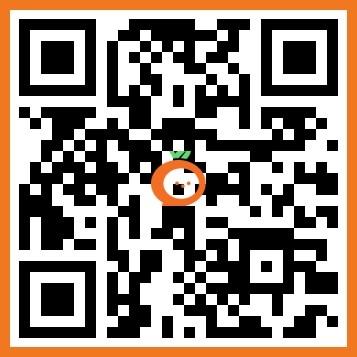
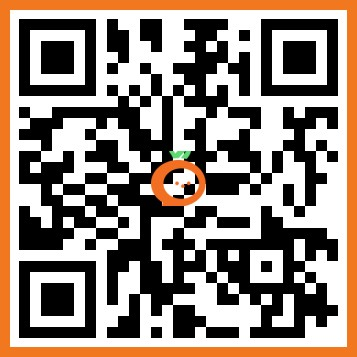
docs(readme):배포변경및 테스트계정변경

Changed region(s): [[0.0308, 0.0308, 0.9552, 0.9552]]

diff --git a/README.md b/README.md
@@ -61,7 +61,7 @@
 | 타겟 사용자 | 일상을 공유하며 상품을 홍보하고 싶은 개인 판매자 · 구매자 |
 |  개발 기간 | 2026.02.24 (화) ~ 2026.03.07 (토) · 총 12일 |
 |  팀 구성 | 5인 |
-|  배포 URL | https://gamgyul-market.netlify.app |
+|  배포 URL | https://gamgyul-market-new.netlify.app |
 |  QR | <img src="./docs/감귤마켓qr.jpg" width="100"> |
 |  기술 스택 | React 18 · TypeScript 5 · TailwindCSS 3 · Vite 5 · Firebase |
 
@@ -90,7 +90,7 @@ SNS의 소통 구조와 상품 홍보 기능을 하나의 플랫폼에서 제공
 
 | ID | PW |
 |----|----|
-| test35@test.com | 20260305 |
+| kindpeople22@sample.com | 242455 |
 
 <br>
 
